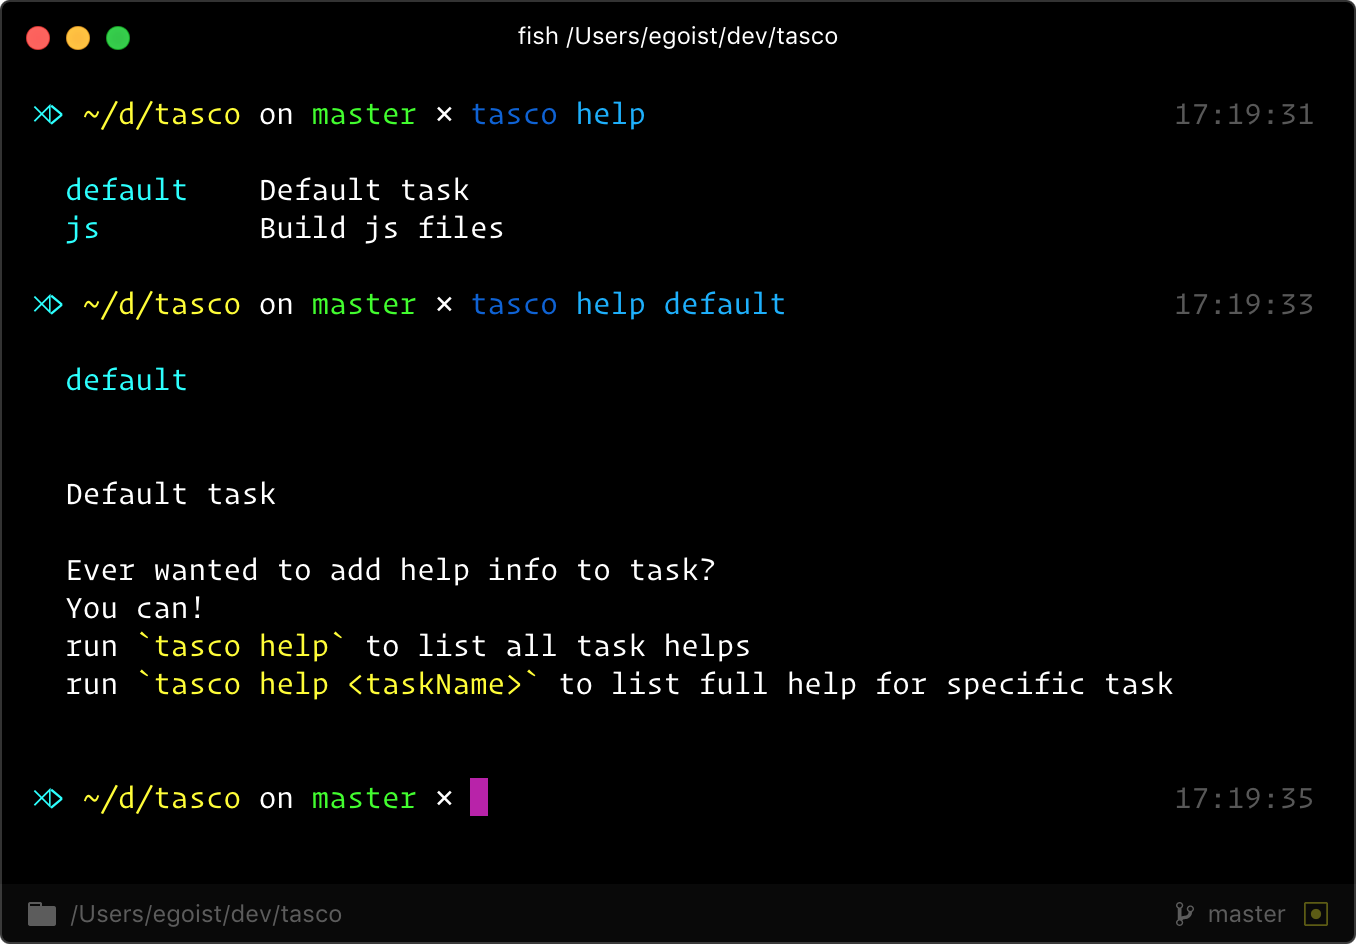
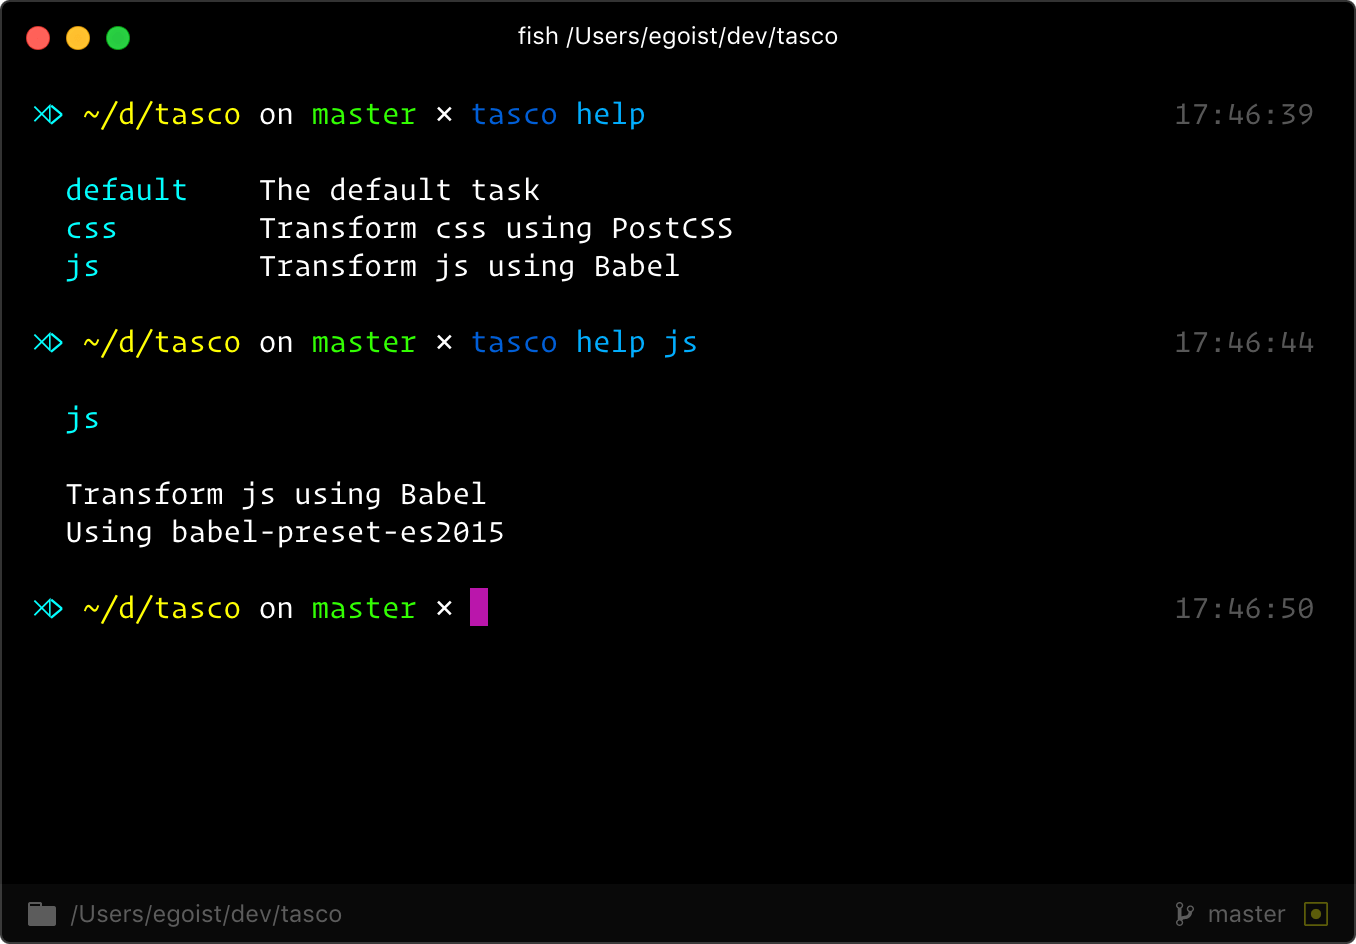
update preview

diff --git a/taskfile.js b/taskfile.js
@@ -1,19 +1,20 @@
 import * as babel from 'babel-core'
-/*
-  Default task
-
-  Ever wanted to add help info to task?
-  You can!
-  run {{ chalk.yellow('`tasco help`') }} to list all task helps
-  run {{ chalk.yellow('`tasco help <taskName>`') }} to list full help for specific task
-*/
+// The default task
 export default async function (t) {
-  console.log('started!')
   await t.parallel('js')
 }
 
-// Build js files
-// Using babel
+// Transform css using PostCSS
+// Using postcss-cssnext
+export async function css(t) {
+  await t
+    .input('./css/*.css')
+    .postcss()
+    .output('./dist/css/')
+}
+
+// Transform js using Babel
+// Using babel-preset-es2015
 export async function js(t) {
   t.use({
     name: 'babel',
